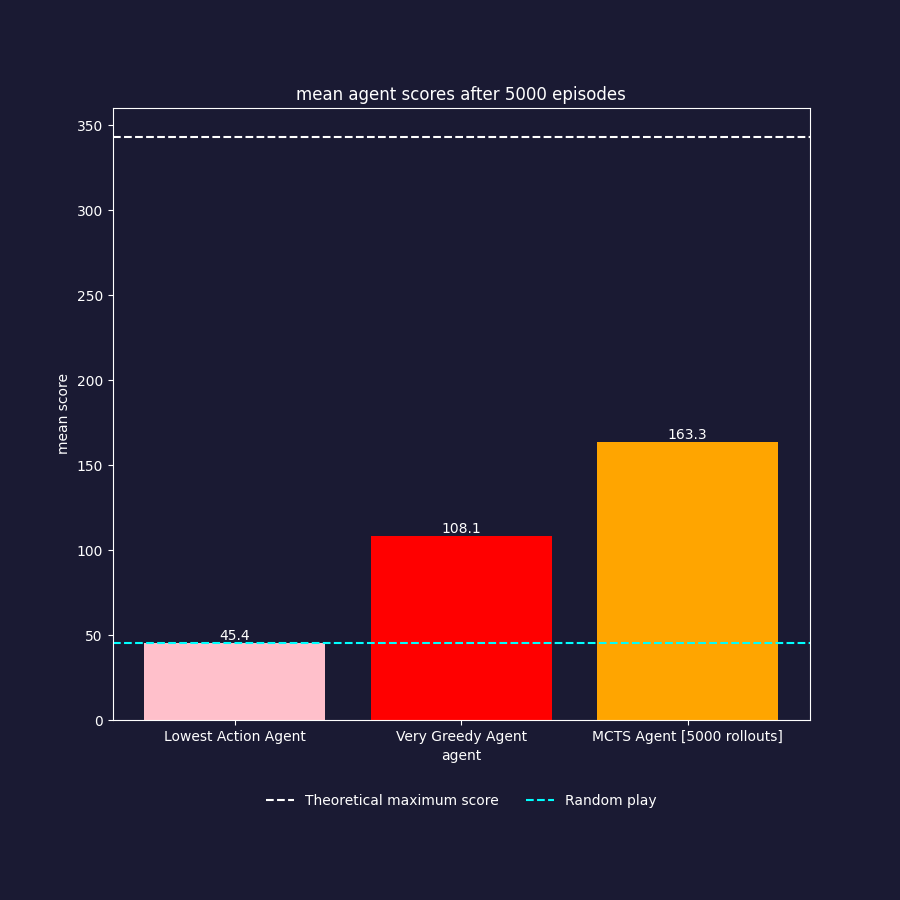
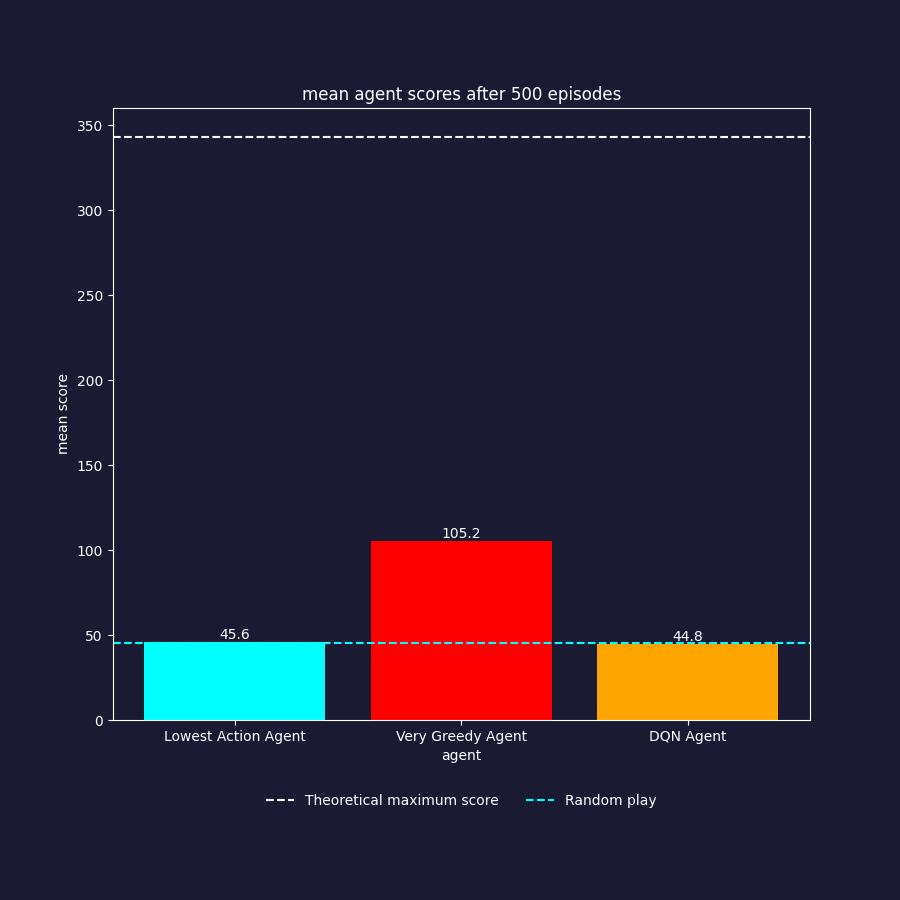
DQN DOESNT WORKgit status

diff --git a/yahtzee/agents/dqn_agent/train.py b/yahtzee/agents/dqn_agent/train.py
@@ -1,0 +1,142 @@
+import random
+import torch
+from collections import deque
+
+import gym
+
+from yahtzee.agents.dqn_agent.replay_buffer import ReplayBuffer
+from yahtzee.agents.dqn_agent.dqn_agent import DQNAgent
+from yahtzee.agents.dqn_agent.model import Model
+from yahtzee.yahtzee import Yahtzee
+from yahtzee.agents.dqn_agent.utils import state_to_tensor
+
+
+TRAINING_STEPS = 15
+BATCH_SIZE = 16
+LEARNING_RATE = 0.001
+DISCOUNT_FACTOR = 0.95
+
+
+def simple_state_to_tensor(state):
+    return torch.tensor([state.number, state.cntr], dtype=torch.float32)
+
+
+class Trainer():
+    def __init__(self):
+        # self.player = DQNAgent()
+        # self.target = DQNAgent()
+        self.player = Model()
+        self.target = Model()
+        self.replay_buffer = ReplayBuffer()
+
+        self.losses = deque(maxlen=500)
+        self.scores = deque(maxlen=500)
+
+    def run(self):
+        for i in range(1000):
+            self.iterate()
+
+            if i % 10 == 0:
+                #self.player.model.load_state_dict(self.target.model.state_dict())
+                self.player.load_state_dict(self.target.state_dict())
+
+    def iterate(self):
+        self.play_episode()
+        self.train_model()
+
+    def train_model(self):
+        """
+        Q(S_t, A_t) = (1 - LR) * Q(S_t, A_t) + LR * (R_t + DF * max_a Q(S_{t+1}, a))
+        """
+        #model = self.target.model
+        model = self.target
+        optimizer = torch.optim.RMSprop(model.parameters(), lr=0.001)
+        criterion = torch.nn.MSELoss()
+
+        for i in range(TRAINING_STEPS):
+            (states, actions, rewards, next_states, dones) = self.replay_buffer.sample(min(BATCH_SIZE, len(self.replay_buffer)))
+
+            states = torch.stack([simple_state_to_tensor(state) for state in states])
+            actions = torch.tensor(actions)
+            next_states = torch.stack([simple_state_to_tensor(state) for state in next_states])
+            rewards = torch.tensor(rewards)
+            dones = list(dones)
+
+            q_values = model(states)
+            next_q_values = model(next_states)
+
+            target_q_values = q_values.clone()
+
+            for i in range(len(dones)):
+                if dones[i]:
+                    target_q_values[i][actions[i]] = rewards[i]
+                else:
+                    #target_q_values[i][actions[i]] = rewards[i] + DISCOUNT_FACTOR * torch.max(next_q_values[i])
+                    target_q_values[i][actions[i]] = torch.max(next_q_values[i])
+
+            loss = criterion(q_values, target_q_values)
+            self.losses.append(loss.item())
+
+            optimizer.zero_grad()
+
+            loss.backward()
+
+            optimizer.step()
+
+            print(f"Score: {round(sum(self.scores)/max(len(self.scores), 1), 1)} - Loss: {round(sum(self.losses)/max(len(self.losses), 1), 2)}", end="\r", flush=True)
+
+    def play_episode(self):
+        #game = Yahtzee()
+        game = SimpleGame()
+
+        while True:
+            state = game.state.copy()
+            #action = self.player.get_action(game.state)
+
+            action_scores = self.player(simple_state_to_tensor(state))
+            if random.random() < 0.1:
+                action = random.randint(0, 1)
+            else:
+                action = torch.argmax(action_scores).item()
+
+            game.step(action)
+            
+            next_state = game.state.copy()
+            done = game.is_done()
+            reward = game.get_score()
+
+            self.replay_buffer.add(state, action, reward, next_state, done)
+
+            if done:
+                self.scores.append(reward)
+                print(f"Score: {round(sum(self.scores)/max(len(self.scores), 1), 2)} - Loss: {round(sum(self.losses)/max(len(self.losses), 1), 4)}", end="\r", flush=True)
+                break
+
+
+class SimpleState():
+    def __init__(self, number = random.randint(-10, 10), cntr = 0):
+        self.number = number
+        self.cntr = cntr
+
+    def copy(self):
+        return SimpleState(self.number, self.cntr)
+
+class SimpleGame():
+    def __init__(self):
+        self.state = SimpleState()
+
+    def step(self, action):
+        assert action in [0, 1]
+
+        if action == 0:
+            self.state.number -= 1
+        else:
+            self.state.number += 1
+
+        self.state.cntr += 1
+
+    def is_done(self):
+        return self.state.cntr >= 100
+
+    def get_score(self):
+        return 10 - abs(self.state.number)

diff --git a/yahtzee/agents/dqn_agent/dqn_agent.py b/yahtzee/agents/dqn_agent/dqn_agent.py
@@ -1,0 +1,47 @@
+import torch
+import random
+
+from yahtzee.agent import Agent
+from yahtzee.yahtzee import State
+
+from yahtzee.agents.dqn_agent.utils import state_to_tensor
+from yahtzee.agents.dqn_agent.model import Model
+
+
+def select_action(state: State, action_scores: torch.Tensor, greedy: bool) -> int:
+    if greedy:
+        return int(torch.argmax(action_scores).item())
+
+    if torch.rand(1).item() <= 0.1: #or torch.sum(action_scores) <= 0:
+        valid_action_indices = [
+            i for i, valid_action in enumerate(state.valid_actions) if valid_action
+        ]
+        action = random.choice(valid_action_indices)
+    else:
+        action = int(torch.argmax(action_scores).item())
+
+    return action
+
+
+class DQNAgent(Agent):
+    def __init__(self, model_path: str = "", greedy: bool = False):
+        if model_path:
+            self.model = torch.load(model_path)
+        else:
+            self.model = Model()
+        self.greedy = greedy
+
+    def get_action(self, state: State) -> int:
+        state_tensor = state_to_tensor(state)
+        action_scores = self.model(state_tensor)
+
+        # Mask away invalid actions
+        valid_action_tensor = torch.tensor(state.valid_actions, dtype=torch.float32)
+        #action_scores *= valid_action_tensor
+        action_scores = torch.where(valid_action_tensor == 1, action_scores, torch.tensor(-1e8))
+
+        action = select_action(state, action_scores, self.greedy)
+        return action
+
+    def get_name(self) -> str:
+        return "DQN Agent"

diff --git a/yahtzee/agents/dqn_agent/utils.py b/yahtzee/agents/dqn_agent/utils.py
@@ -1,0 +1,40 @@
+import torch
+
+from yahtzee.yahtzee import State
+from yahtzee.agents.dqn_agent.model import INPUT_SIZE
+
+def state_to_tensor(state: State) -> torch.Tensor:
+    t = torch.zeros(INPUT_SIZE, dtype=torch.float32)
+
+    offset = 0
+
+    for dice in state.dice:
+        roll = dice - 1
+        t[offset + roll] = 1
+        offset += 6
+
+    for _, value in state.available_categories.items():
+        t[offset] = value
+        offset += 1
+
+    t[offset] = int(state.remaining_rolls >= 1)
+    t[offset + 1] = int(state.remaining_rolls >= 2)
+
+    return t
+
+
+class AverageMeter():
+    def __init__(self):
+        self.val = 0
+        self.avg = 0
+        self.sum = 0
+        self.count = 0
+
+    def __repr__(self):
+        return f"{round(self.avg, 4)}"
+
+    def update(self, val, n=1):
+        self.val = val
+        self.sum += val * n
+        self.count += n
+        self.avg = self.sum / self.count

diff --git a/yahtzee/agents/dqn_agent/replay_buffer.py b/yahtzee/agents/dqn_agent/replay_buffer.py
@@ -1,0 +1,20 @@
+from collections import deque
+import random
+
+
+BUFFER_SIZE = 5000
+
+
+class ReplayBuffer():
+    def __init__(self):
+        self.buffer = deque(maxlen=BUFFER_SIZE)
+
+    def add(self, state, action, reward, next_state, done):
+        self.buffer.append((state, action, reward, next_state, done))
+
+    def sample(self, batch_size: int):
+        states, actions, rewards, next_states, dones = zip(*random.sample(self.buffer, batch_size))
+        return states, actions, rewards, next_states, dones
+
+    def __len__(self):
+        return len(self.buffer)

diff --git a/yahtzee/agents/dqn_agent/model.py b/yahtzee/agents/dqn_agent/model.py
@@ -1,0 +1,24 @@
+from torch import nn
+from torch.nn import functional as F
+
+from yahtzee.constants import ACTION_SPACE
+
+
+#INPUT_SIZE = 45
+INPUT_SIZE = 2
+
+
+class Model(nn.Module):
+    def __init__(self):
+        super(Model, self).__init__()
+        self.fc1 = nn.Linear(INPUT_SIZE, 256)
+        self.fc2 = nn.Linear(256, 256)
+        self.fc3 = nn.Linear(256, 2)
+
+    def forward(self, x):
+        x = self.fc1(x)
+        x = F.relu(x)
+        x = self.fc2(x)
+        x = F.relu(x)
+        x = self.fc3(x)
+        return x

diff --git a/yahtzee/agents/__init__.py b/yahtzee/agents/__init__.py
@@ -3,5 +3,6 @@ from .random_agent.random_agent import RandomAgent
 from .lowest_action_agent.lowest_action_agent import LowestActionAgent
 from .very_greedy_agent.very_greedy_agent import VeryGreedyAgent
 from .mcts_agent.mcts_agent import MctsAgent
+from .dqn_agent.dqn_agent import DQNAgent
 
-__all__ = ["RandomAgent", "LowestActionAgent", "VeryGreedyAgent", "MctsAgent"]
+__all__ = ["RandomAgent", "LowestActionAgent", "VeryGreedyAgent", "MctsAgent", "DQNAgent"]

diff --git a/yahtzee/arena.py b/yahtzee/arena.py
@@ -11,7 +11,8 @@ from yahtzee.constants import MAXIMUM_THEORETICAL_SCORE, EXPECTED_RANDOM_PLAY_SC
 from yahtzee.agents import (
     LowestActionAgent,
     VeryGreedyAgent,
-    MctsAgent,
+    #MctsAgent,
+    DQNAgent,
 )
 
 
@@ -19,7 +20,8 @@ from yahtzee.agents import (
 AGENTS: List[Type[Agent]] = [
     LowestActionAgent,
     VeryGreedyAgent,
-    MctsAgent,
+    #MctsAgent,
+    DQNAgent,
 ]
 
 

diff --git a/scripts/train_dqn_agent.py b/scripts/train_dqn_agent.py
@@ -1,0 +1,5 @@
+
+from yahtzee.agents.dqn_agent.train import Trainer
+
+trainer = Trainer()
+trainer.run()
